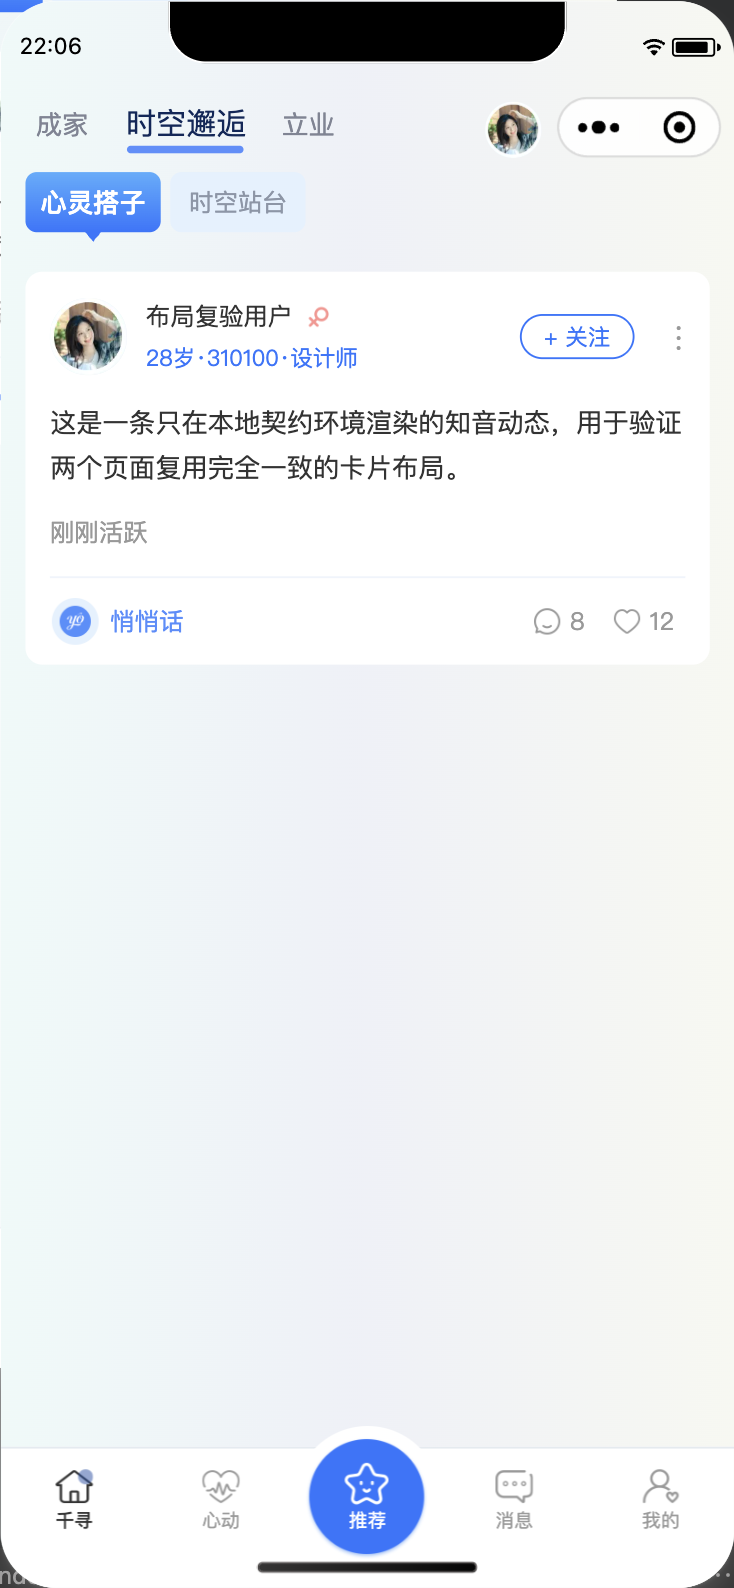
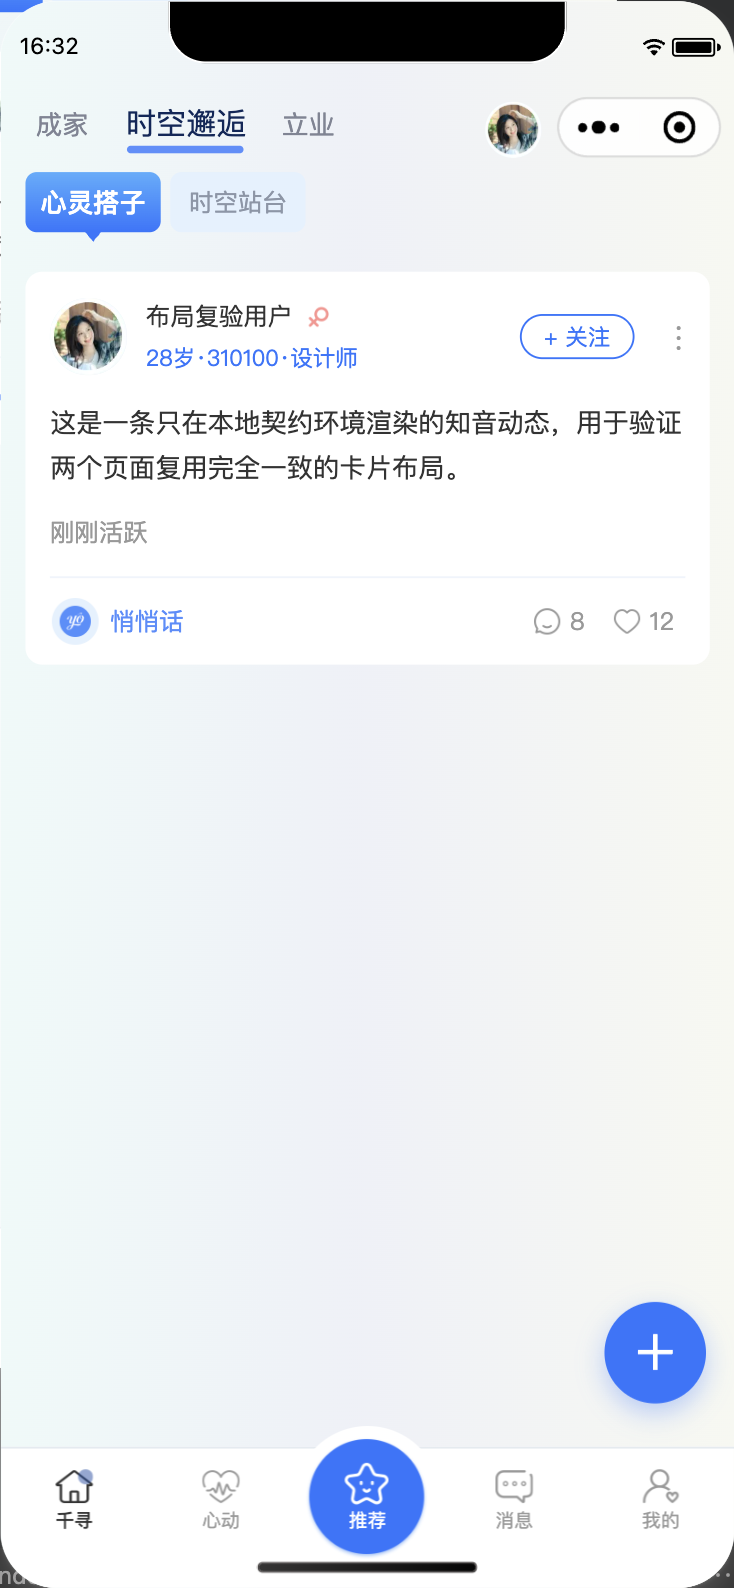
docs(qianxun): 更新知音发帖权限验收证据

Changed region(s): [[0.8093, 0.8023, 0.9591, 0.8948], [0.03, 0.0, 0.1199, 0.0309]]

diff --git a/docs/验收报告/2026-09-09-知音双动态-蓝湖还原-acceptance.md b/docs/验收报告/2026-09-09-知音双动态-蓝湖还原-acceptance.md
@@ -11,7 +11,7 @@
 
 | 页面 | 截图 | 结果 |
 | --- | --- | --- |
-| 心灵搭子 | `截图证据/2026-09-09-知音双动态/01-心灵搭子.png` | 使用统一动态卡片 |
+| 心灵搭子 | `截图证据/2026-09-09-知音双动态/01-心灵搭子.png` | 使用统一动态卡片；普通用户显示发布按钮 |
 | 时空站台 | `截图证据/2026-09-09-知音双动态/02-时空站台.png` | 使用统一动态卡片；工作人员显示发布按钮 |
 
 运行态脚本使用等长夹具分别打开两个 Tab，已验证：
@@ -20,7 +20,7 @@
 2. 卡片 `style` 完全一致。
 3. 卡片实际宽高完全一致。
 4. 作者、关注、正文、活跃时间、悄悄话、评论、心动和更多操作结构一致。
-5. “心灵搭子”不显示发布按钮；“时空站台”仅在服务端返回工作人员能力时显示发布按钮。
+5. “心灵搭子”向所有通过普通社区准入的用户显示发布按钮；“时空站台”仅在服务端返回工作人员能力时显示发布按钮。
 
 ## 差异清单
 
@@ -29,7 +29,8 @@
 | Tab 名称与选中态 | 是 | 符合 |
 | 请求数据源 | 是 | 符合 |
 | 空态文案 | 是 | 符合 |
-| 时空站台发布按钮 | 是，权限差异 | 符合 |
+| 心灵搭子发布按钮 | 是，沿用普通动态发帖资格 | 符合 |
+| 时空站台发布按钮 | 是，仅工作人员可见 | 符合 |
 | 卡片布局、尺寸、颜色、交互位置 | 否 | 无差异 |
 
 ## 还原度评分
